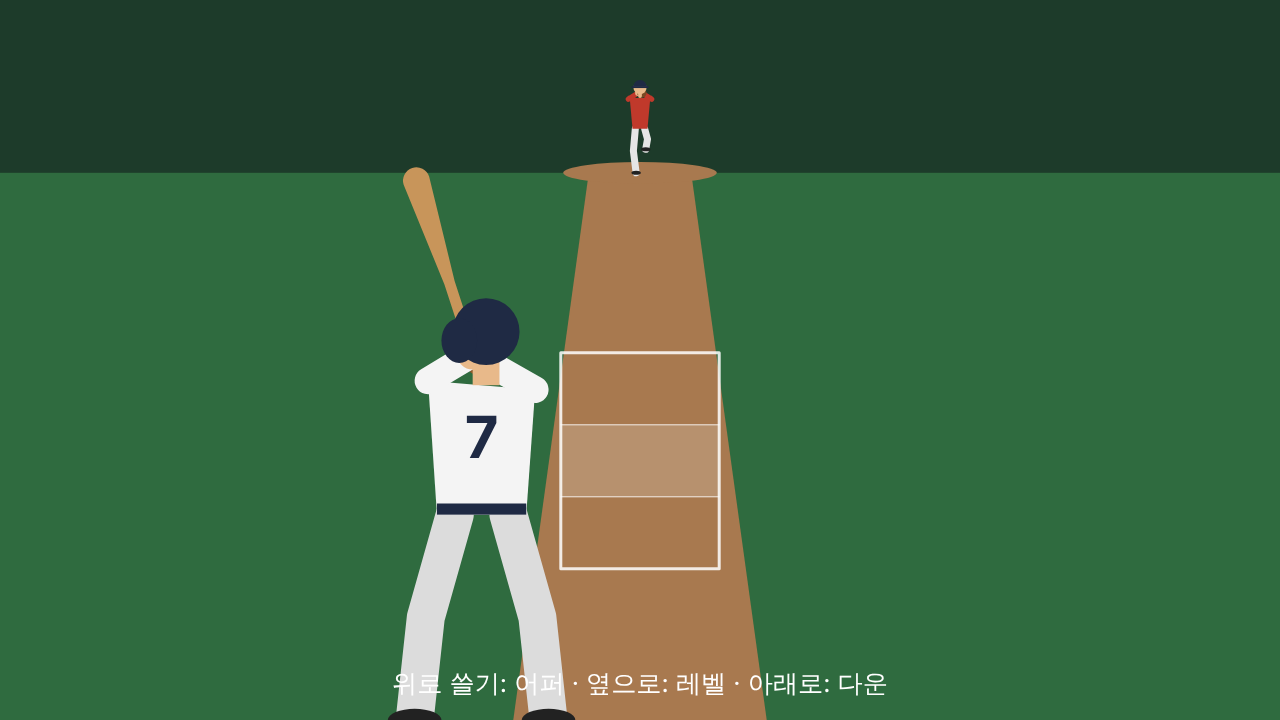
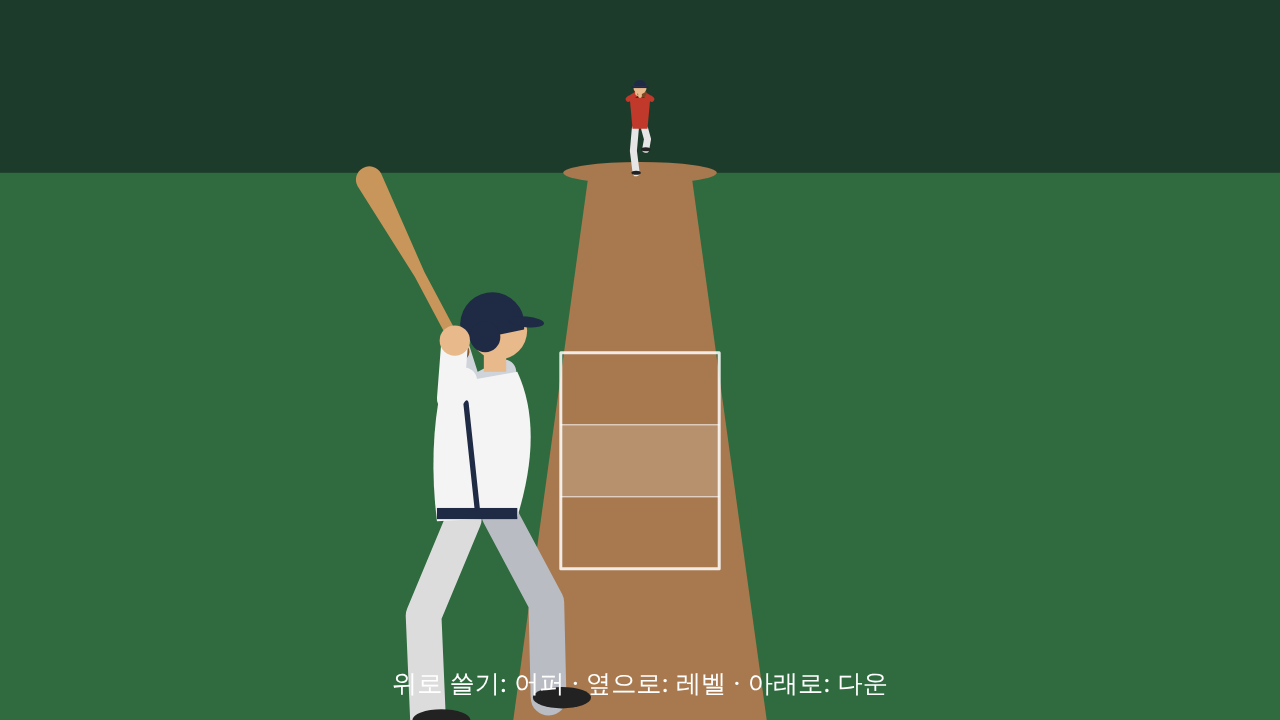
fix: draw batter in a side stance facing the plate
The batter was drawn from behind as if facing the camera. Redraw as a
right-handed side stance seen from the catcher: chest toward the plate,
front foot toward the pitcher, far limbs shaded behind the body, helmet
brim toward the pitcher, slight forward lean through the swing.

Story: tuta-duel/story-008

Claude-Session: https://claude.ai/code/session_019xpvAgo9DYY3p9dBNp4tus

Changed region(s): [[0.2812, 0.2139, 0.4688, 1.0], [0.2812, 0.8861, 0.375, 1.0]]

diff --git a/src/view/batter_sprite.js b/src/view/batter_sprite.js
@@ -1,16 +1,21 @@
-// Flat-vector batter seen from behind, from the catcher's position (story-008,
-// design/game-brief.md Art direction). A right-handed batter standing on the
-// screen-left side of the plate. Swing poses are computed from the swing type
-// so each type sweeps through a different row of the zone.
+// Flat-vector batter seen from the catcher's position (story-008,
+// design/game-brief.md Art direction). A right-handed batter stands on the
+// screen-left side of the plate in a side stance: chest toward the plate
+// (screen right), front foot toward the pitcher (into the screen), head turned
+// to the pitcher. Swing poses are computed from the swing type so each type
+// sweeps through a different row of the zone.
 
 import { lerp, lerpPoint, ease } from './pose_math.js';
 
 const COLORS = {
   jersey: '#f4f4f4',
+  jerseyFar: '#cfd3da',
   trim: '#1f2a44',
   pants: '#dcdcdc',
+  pantsFar: '#b9bcc2',
   helmet: '#1f2a44',
   skin: '#e8b98a',
+  skinFar: '#cf9f72',
   bat: '#c8955a',
   batDark: '#8a5a2b',
   shoe: '#222222',
@@ -23,34 +28,40 @@ const CONTACT_ANGLE = { upper: 14, level: 0, down: -14 };
 const SWEET_SPOT = 0.75;
 
 /**
- * Body anchor points in CSS px.
+ * Body anchor points in CSS px. "rear" is the near side (toward the catcher),
+ * "front" the far side (toward the pitcher).
  * @param {{x: number, y: number}} feet Point between the feet.
  * @param {number} height Batter height.
  */
 export function batterBody(feet, height) {
+  const at = (x, y) => ({ x: feet.x + x * height, y: feet.y + y * height });
   return {
     feet,
-    hip: { x: feet.x, y: feet.y - 0.46 * height },
-    rearShoulder: { x: feet.x - 0.12 * height, y: feet.y - 0.76 * height },
-    frontShoulder: { x: feet.x + 0.12 * height, y: feet.y - 0.74 * height },
-    head: { x: feet.x + 0.01 * height, y: feet.y - 0.87 * height },
+    rearFoot: at(-0.12, 0),
+    frontFoot: at(0.15, -0.05),
+    rearHip: at(-0.04, -0.45),
+    frontHip: at(0.04, -0.46),
+    rearShoulder: at(-0.04, -0.76),
+    frontShoulder: at(0.05, -0.78),
+    head: at(0.03, -0.88),
   };
 }
 
 /**
- * Hand position, bat angle (radians) and bat length scale for a swing moment.
+ * Hand position, bat angle (radians), bat length scale and upper-body lean for a swing moment.
  * @param {object} body From batterBody().
  * @param {number} height Batter height, CSS px.
  * @param {number} batLength Bat length, CSS px.
  * @param {{swingType: string, progress: number, contactFraction: number, target: {x: number, y: number}}|null} swing
  *   null for the ready stance. target is the zone point the sweet spot passes at contact.
- * @returns {{hands: {x: number, y: number}, angle: number, scale: number}}
+ * @returns {{hands: {x: number, y: number}, angle: number, scale: number, lean: number}}
  */
 export function batterPose(body, height, batLength, swing) {
   const stance = {
-    hands: { x: body.rearShoulder.x + 0.1 * height, y: body.rearShoulder.y - 0.06 * height },
-    angle: degToRad(-108),
+    hands: { x: body.rearShoulder.x - 0.02 * height, y: body.rearShoulder.y - 0.09 * height },
+    angle: degToRad(-118),
     scale: 0.85,
+    lean: 0,
   };
   if (!swing) return stance;
 
@@ -62,11 +73,13 @@ export function batterPose(body, height, batLength, swing) {
     },
     angle: contactAngle,
     scale: 1,
+    lean: 0.05,
   };
   const finish = {
-    hands: { x: body.frontShoulder.x + 0.08 * height, y: body.frontShoulder.y - 0.04 * height },
+    hands: { x: body.frontShoulder.x + 0.08 * height, y: body.frontShoulder.y - 0.06 * height },
     angle: contactAngle + degToRad(38),
     scale: 0.5,
+    lean: 0.03,
   };
 
   const c = swing.contactFraction;
@@ -75,74 +88,97 @@ export function batterPose(body, height, batLength, swing) {
 }
 
 /**
- * Draws the batter and bat.
+ * Draws the batter and bat. Far-side limbs are drawn first in a darker shade.
  * @param {CanvasRenderingContext2D} ctx
  * @param {object} body From batterBody().
  * @param {number} height Batter height, CSS px.
  * @param {number} batLength Bat length, CSS px.
- * @param {{hands: {x: number, y: number}, angle: number, scale: number}} pose From batterPose().
+ * @param {{hands: {x: number, y: number}, angle: number, scale: number, lean: number}} pose From batterPose().
  */
 export function drawBatter(ctx, body, height, batLength, pose) {
-  const { feet, hip, rearShoulder, frontShoulder, head } = body;
+  const h = height;
+  const shift = (pt) => ({ x: pt.x + pose.lean * h, y: pt.y });
+  const rearShoulder = shift(body.rearShoulder);
+  const frontShoulder = shift(body.frontShoulder);
+  const head = shift(body.head);
   ctx.lineCap = 'round';
   ctx.lineJoin = 'round';
 
-  // Legs in a wide stance.
-  ctx.strokeStyle = COLORS.pants;
-  ctx.lineWidth = height * 0.085;
-  for (const side of [-1, 1]) {
-    const hipSide = { x: hip.x + side * 0.06 * height, y: hip.y };
-    const foot = { x: feet.x + side * 0.15 * height, y: feet.y };
-    const knee = { x: lerp(hipSide.x, foot.x, 0.5) + side * 0.02 * height, y: lerp(hipSide.y, foot.y, 0.5) };
-    stroke(ctx, [hipSide, knee, foot]);
-    ctx.fillStyle = COLORS.shoe;
-    ctx.beginPath();
-    ctx.ellipse(foot.x, foot.y, 0.06 * height, 0.025 * height, 0, 0, Math.PI * 2);
-    ctx.fill();
-  }
+  // Far leg and far (lead) arm, behind the body.
+  drawLeg(ctx, body.frontHip, body.frontFoot, 1, h, COLORS.pantsFar);
+  ctx.strokeStyle = COLORS.jerseyFar;
+  ctx.lineWidth = h * 0.055;
+  stroke(ctx, [frontShoulder, elbow(frontShoulder, pose.hands, h), pose.hands]);
 
-  // Back of the jersey with a number.
+  // Near leg.
+  drawLeg(ctx, body.rearHip, body.rearFoot, -1, h, COLORS.pants);
+
+  // Torso in profile, chest toward the plate.
+  const hip = lerpPoint(body.rearHip, body.frontHip, 0.5);
   ctx.fillStyle = COLORS.jersey;
   ctx.beginPath();
-  ctx.moveTo(rearShoulder.x, rearShoulder.y);
-  ctx.lineTo(frontShoulder.x, frontShoulder.y);
-  ctx.lineTo(hip.x + 0.1 * height, hip.y);
-  ctx.lineTo(hip.x - 0.1 * height, hip.y);
+  ctx.moveTo(rearShoulder.x - 0.05 * h, rearShoulder.y + 0.01 * h);
+  ctx.lineTo(frontShoulder.x + 0.03 * h, frontShoulder.y);
+  ctx.quadraticCurveTo(frontShoulder.x + 0.09 * h, lerp(frontShoulder.y, hip.y, 0.4), hip.x + 0.08 * h, hip.y);
+  ctx.lineTo(hip.x - 0.1 * h, hip.y + 0.01 * h);
+  ctx.quadraticCurveTo(hip.x - 0.12 * h, lerp(hip.y, rearShoulder.y, 0.5), rearShoulder.x - 0.05 * h, rearShoulder.y + 0.01 * h);
   ctx.closePath();
   ctx.fill();
+  // Side seam stripe and belt.
+  ctx.strokeStyle = COLORS.trim;
+  ctx.lineWidth = h * 0.012;
+  stroke(ctx, [{ x: rearShoulder.x + 0.005 * h, y: rearShoulder.y + 0.05 * h }, { x: hip.x - 0.01 * h, y: hip.y - 0.02 * h }]);
   ctx.fillStyle = COLORS.trim;
-  ctx.fillRect(hip.x - 0.1 * height, hip.y - 0.025 * height, 0.2 * height, 0.025 * height);
-  ctx.font = `bold ${0.13 * height}px system-ui, sans-serif`;
-  ctx.textAlign = 'center';
-  ctx.textBaseline = 'middle';
-  ctx.fillText('7', hip.x, lerp(hip.y, rearShoulder.y, 0.55));
+  ctx.fillRect(hip.x - 0.1 * h, hip.y - 0.02 * h, 0.18 * h, 0.025 * h);
 
-  // Bat, drawn before the arms so the hands sit on top of the grip.
+  // Neck, face and helmet, turned toward the pitcher.
+  ctx.fillStyle = COLORS.skin;
+  ctx.fillRect(head.x - 0.025 * h, head.y + 0.02 * h, 0.05 * h, 0.08 * h);
+  ctx.beginPath();
+  ctx.arc(head.x + 0.008 * h, head.y + 0.008 * h, 0.064 * h, 0, Math.PI * 2);
+  ctx.fill();
+  ctx.fillStyle = COLORS.helmet;
+  ctx.beginPath();
+  ctx.arc(head.x - 0.006 * h, head.y - 0.006 * h, 0.072 * h, Math.PI * 0.82, Math.PI * 2.05);
+  ctx.closePath();
+  ctx.fill();
+  ctx.beginPath();
+  ctx.ellipse(head.x + 0.07 * h, head.y - 0.012 * h, 0.04 * h, 0.012 * h, 0.1, 0, Math.PI * 2);
+  ctx.fill();
+  ctx.beginPath();
+  ctx.arc(head.x - 0.022 * h, head.y + 0.022 * h, 0.034 * h, 0, Math.PI * 2);
+  ctx.fill();
+
+  // Bat, then the near (back) arm over the grip.
   const len = batLength * pose.scale;
   const tip = { x: pose.hands.x + Math.cos(pose.angle) * len, y: pose.hands.y + Math.sin(pose.angle) * len };
   const knob = { x: pose.hands.x - Math.cos(pose.angle) * 0.06 * batLength, y: pose.hands.y - Math.sin(pose.angle) * 0.06 * batLength };
-  drawBat(ctx, knob, tip, height);
+  drawBat(ctx, knob, tip, h);
 
-  // Arms meet at the grip.
   ctx.strokeStyle = COLORS.jersey;
-  ctx.lineWidth = height * 0.06;
-  stroke(ctx, [rearShoulder, lerpPoint(rearShoulder, pose.hands, 0.5), pose.hands]);
-  stroke(ctx, [frontShoulder, lerpPoint(frontShoulder, pose.hands, 0.5), pose.hands]);
+  ctx.lineWidth = h * 0.06;
+  stroke(ctx, [rearShoulder, elbow(rearShoulder, pose.hands, h), pose.hands]);
   ctx.fillStyle = COLORS.skin;
   ctx.beginPath();
-  ctx.arc(pose.hands.x, pose.hands.y, 0.035 * height, 0, Math.PI * 2);
+  ctx.arc(pose.hands.x, pose.hands.y, 0.034 * h, 0, Math.PI * 2);
   ctx.fill();
+}
 
-  // Neck and helmet, seen from behind.
-  ctx.fillStyle = COLORS.skin;
-  ctx.fillRect(head.x - 0.03 * height, head.y, 0.06 * height, 0.12 * height);
-  ctx.fillStyle = COLORS.helmet;
+/** Bent leg from hip to foot; side picks which way the knee points (+1 toward the plate). */
+function drawLeg(ctx, hip, foot, side, h, color) {
+  const knee = { x: lerp(hip.x, foot.x, 0.5) + side * 0.05 * h, y: lerp(hip.y, foot.y, 0.48) };
+  ctx.strokeStyle = color;
+  ctx.lineWidth = h * 0.08;
+  stroke(ctx, [hip, knee, foot]);
+  ctx.fillStyle = COLORS.shoe;
   ctx.beginPath();
-  ctx.arc(head.x, head.y, 0.075 * height, 0, Math.PI * 2);
+  ctx.ellipse(foot.x + 0.03 * h, foot.y, 0.065 * h, 0.024 * h, 0, 0, Math.PI * 2);
   ctx.fill();
-  ctx.beginPath();
-  ctx.ellipse(head.x - 0.06 * height, head.y + 0.02 * height, 0.04 * height, 0.05 * height, 0, 0, Math.PI * 2);
-  ctx.fill();
+}
+
+/** Elbow point: the arm sags below the line from shoulder to hands. */
+function elbow(shoulder, hands, h) {
+  return { x: lerp(shoulder.x, hands.x, 0.5) - 0.02 * h, y: Math.max(shoulder.y, hands.y) + 0.04 * h };
 }
 
 function drawBat(ctx, knob, tip, height) {
@@ -171,7 +207,12 @@ function drawBat(ctx, knob, tip, height) {
 }
 
 function blend(a, b, t) {
-  return { hands: lerpPoint(a.hands, b.hands, t), angle: lerp(a.angle, b.angle, t), scale: lerp(a.scale, b.scale, t) };
+  return {
+    hands: lerpPoint(a.hands, b.hands, t),
+    angle: lerp(a.angle, b.angle, t),
+    scale: lerp(a.scale, b.scale, t),
+    lean: lerp(a.lean, b.lean, t),
+  };
 }
 
 function stroke(ctx, points) {
@@ -184,4 +225,3 @@ function stroke(ctx, points) {
 function degToRad(deg) {
   return (deg * Math.PI) / 180;
 }
-

diff --git a/production/qa/evidence/story-008-pitcher-batter-graphics-evidence.md b/production/qa/evidence/story-008-pitcher-batter-graphics-evidence.md
@@ -7,7 +7,7 @@
 |---|---|
 | 01-windup-leg-lift | Pitcher lifts the front leg, hands together at the chest |
 | 02-windup-cocked | Stride, throwing arm cocked back, glove arm out |
-| 03-ball-in-flight | Ball leaves the release hand; pitcher in follow-through; batter in stance |
+| 03-ball-in-flight | Ball leaves the release hand; pitcher in follow-through; batter in side stance (chest to the plate, helmet toward the pitcher) |
 | 04-contact-upper-low | Upper swing: bat crosses the low row at contact, ball on the barrel |
 | 05-contact-level-middle | Level swing: bat crosses the middle row |
 | 06-contact-down-high | Down swing: bat crosses the high row |
